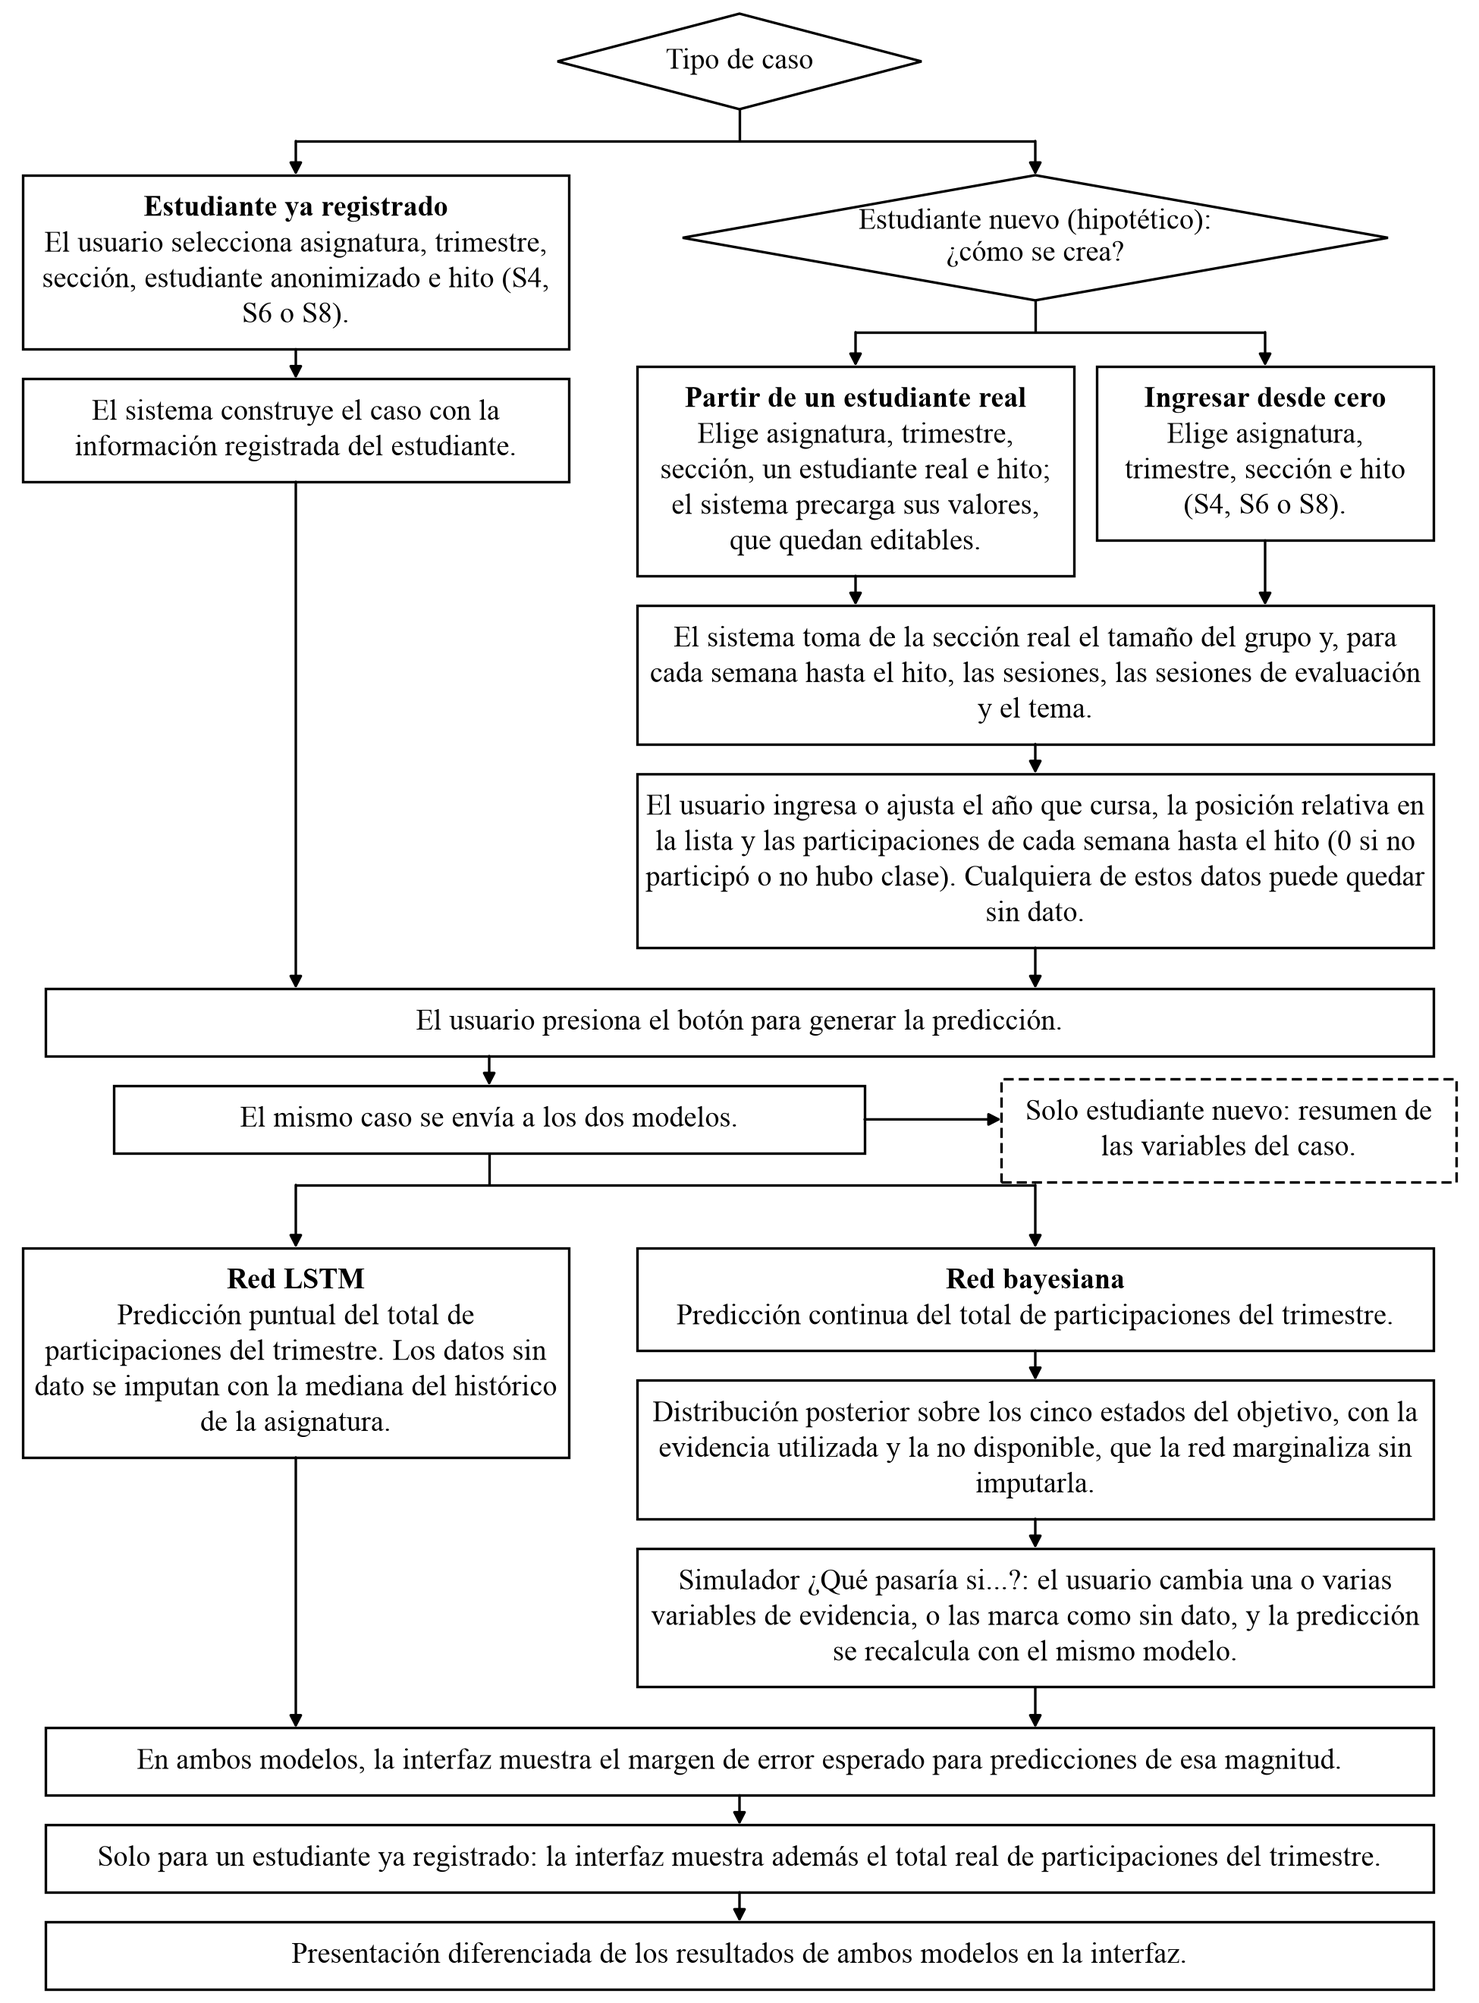
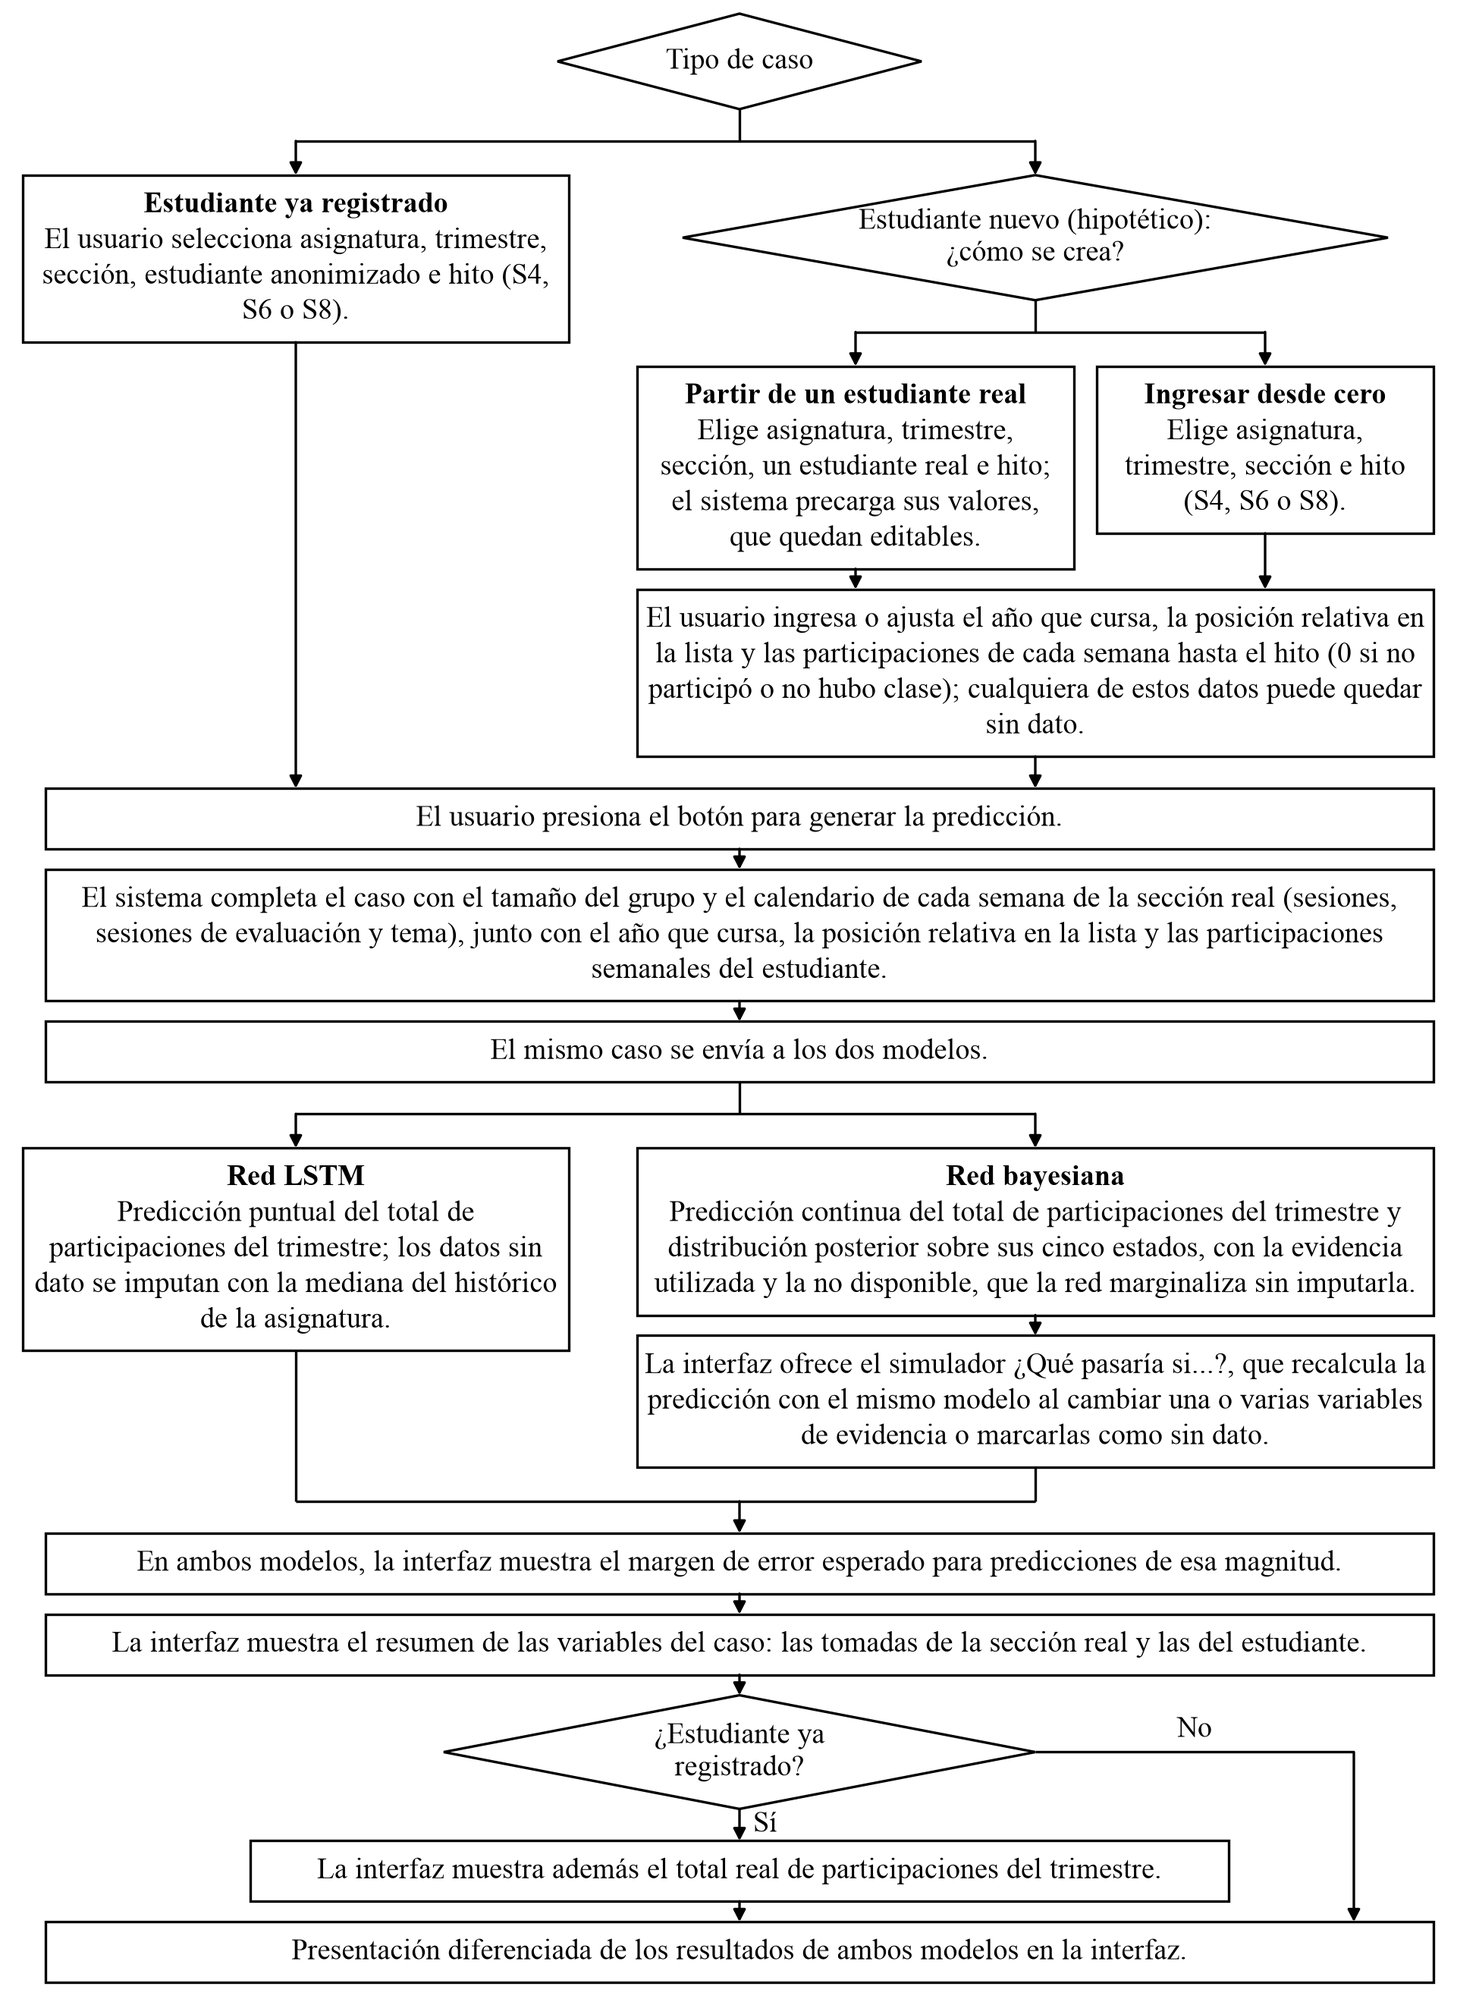
Figura 13

diff --git a/prototipo/app.py b/prototipo/app.py
@@ -44,6 +44,51 @@ SIN_DATO = "__sin_dato__"
 TAMANO_TEXTO_PX = 15
 
 
+def _texto_dato(valor, formato) -> str:
+    return "(sin dato)" if valor is None else formato(valor)
+
+
+def mostrar_resumen_variables(contenedor, materia, trimestre, seccion, hito, anio, posicion,
+                              participaciones, titulo_estudiante: str) -> None:
+    """Resumen de las variables del caso, igual en ambos modos: lo que se
+    toma de la sección real y lo propio del estudiante (registrado o
+    ingresado por el usuario)."""
+    contenedor.clear()
+    try:
+        horario = lstm_service.horario_real_seccion(materia, trimestre, seccion, hito)
+    except Exception:  # noqa: BLE001 — el resumen no debe romper la generación
+        contenedor.set_visibility(False)
+        return
+    with contenedor:
+        ui.label("Resumen de variables de entrada").classes("text-subtitle2 q-mt-md")
+        ui.label(
+            "Las variables del caso: cuáles se fijan por la sección real y cuáles "
+            "corresponden al estudiante."
+        ).classes("text-caption text-grey-7")
+        ui.label(
+            f"Fijado por la sección real ({materia} · {trimestre} · sección {seccion}):"
+        ).classes("text-body2 text-weight-bold")
+        ui.label(f"Tamaño del grupo: {horario['tamano_grupo']:.0f} estudiantes").classes("text-body2")
+        for semana_info in horario["semanas"]:
+            ui.label(
+                f"Semana {semana_info['semana']}: "
+                f"{semana_info['sesiones']:.0f} sesión(es), "
+                f"{semana_info['evaluaciones']:.0f} de evaluación, "
+                f"temas {semana_info['tema_1']}/{semana_info['tema_2']}"
+            ).classes("text-caption text-grey-7")
+        ui.label(titulo_estudiante).classes("text-body2 text-weight-bold q-mt-xs")
+        ui.label(f"Año que cursa: {_texto_dato(anio, lambda v: f'{v:g}')}").classes("text-body2")
+        ui.label(
+            f"Posición relativa en la lista: {_texto_dato(posicion, lambda v: f'{v:.3f}')}"
+        ).classes("text-body2")
+        ui.label(
+            "Participaciones por semana: "
+            + ", ".join(f"sem. {i + 1}: {_texto_dato(p, lambda v: f'{v:.0f}')}"
+                        for i, p in enumerate(participaciones))
+        ).classes("text-body2")
+    contenedor.set_visibility(True)
+
+
 def construir_simulador(contenedor, materia: str, evidencia_observada: dict, prediccion_base: float) -> None:
     """Simulador de evidencia: un desplegable por variable de evidencia,
     iniciado en el valor observado del caso, que permite probar cualquier
@@ -160,6 +205,9 @@ def pagina_principal() -> None:
         for selector in (select_trimestre, select_seccion, select_estudiante, select_hito):
             selector.disable()
 
+        contenedor_resumen_variables = ui.column().classes("w-full q-mt-xs")
+        contenedor_resumen_variables.set_visibility(False)
+
         boton_generar = ui.button("Generar predicción")
         boton_generar.disable()
 
@@ -188,6 +236,7 @@ def pagina_principal() -> None:
             select_hito.disable()
             boton_generar.disable()
             etiqueta_caso.set_text("")
+            contenedor_resumen_variables.set_visibility(False)
             _limpiar_resultado_lstm()
             _limpiar_resultado_bayes()
 
@@ -217,12 +266,14 @@ def pagina_principal() -> None:
             select_hito.set_value(None)
             boton_generar.disable()
             etiqueta_caso.set_text("")
+            contenedor_resumen_variables.set_visibility(False)
             _limpiar_resultado_lstm()
             _limpiar_resultado_bayes()
             if select_estudiante.value:
                 select_hito.enable()
 
         def al_cambiar_hito() -> None:
+            contenedor_resumen_variables.set_visibility(False)
             _limpiar_resultado_lstm()
             _limpiar_resultado_bayes()
             if select_hito.value:
@@ -248,6 +299,15 @@ def pagina_principal() -> None:
                 f"Caso construido: {caso.materia} · {caso.trimestre} · "
                 f"sección {caso.seccion} · {caso.estudiante_id} · semana {caso.hito}"
             )
+            try:
+                registrado = lstm_service.valores_reales_estudiante(caso)
+                mostrar_resumen_variables(
+                    contenedor_resumen_variables, caso.materia, caso.trimestre, caso.seccion,
+                    caso.hito, registrado["anio_academico"], registrado["posicion_lista"],
+                    registrado["participaciones_semanales"], "Registrado para el estudiante:",
+                )
+            except Exception:  # noqa: BLE001 — el resumen no debe romper la generación
+                contenedor_resumen_variables.set_visibility(False)
             _ejecutar_lstm(caso)
             _ejecutar_bayes(caso)
 
@@ -606,11 +666,6 @@ def pagina_principal() -> None:
 
         boton_precargar_n.on_click(precargar_valores)
 
-        ui.label("Resumen de variables de entrada").classes("text-subtitle2 q-mt-md")
-        ui.label(
-            "Las variables del caso: cuáles se fijan por la sección real "
-            "elegida y cuáles ingresaste a mano."
-        ).classes("text-caption text-grey-7")
         contenedor_resumen_variables_n = ui.column().classes("w-full q-mt-xs")
         contenedor_resumen_variables_n.set_visibility(False)
 
@@ -622,6 +677,7 @@ def pagina_principal() -> None:
         def _limpiar_n() -> None:
             precarga["estudiante_id"] = None
             etiqueta_caso_n.set_text("")
+            contenedor_resumen_variables_n.set_visibility(False)
             _limpiar_resultado_lstm_n()
             _limpiar_resultado_bayes_n()
 
@@ -720,43 +776,10 @@ def pagina_principal() -> None:
                 texto_caso += f" · valores de partida precargados de {precarga['estudiante_id']}"
             etiqueta_caso_n.set_text(texto_caso)
 
-            # Resumen de las 9 variables de entrada -- cuáles se fijan por
-            # la sección real (tamaño de grupo, sesiones/evaluaciones/tema
-            # de cada semana) y cuáles se ingresaron a mano.
-            contenedor_resumen_variables_n.clear()
-            try:
-                horario = lstm_service.horario_real_seccion(materia, trimestre, seccion, hito)
-                with contenedor_resumen_variables_n:
-                    ui.label(
-                        f"Fijado por la sección real ({materia} · {trimestre} · sección {seccion}):"
-                    ).classes("text-body2 text-weight-bold")
-                    ui.label(f"Tamaño del grupo: {horario['tamano_grupo']:.0f} estudiantes").classes("text-body2")
-                    for semana_info in horario["semanas"]:
-                        ui.label(
-                            f"Semana {semana_info['semana']}: "
-                            f"{semana_info['sesiones']:.0f} sesión(es), "
-                            f"{semana_info['evaluaciones']:.0f} de evaluación, "
-                            f"temas {semana_info['tema_1']}/{semana_info['tema_2']}"
-                        ).classes("text-caption text-grey-7")
-
-                    ui.label("Ingresado a mano:").classes("text-body2 text-weight-bold q-mt-xs")
-                    ui.label(
-                        f"Año que cursa: {anio if anio is not None else '(sin dato)'}"
-                    ).classes("text-body2")
-                    ui.label(
-                        "Posición relativa en la lista: "
-                        + ("(sin dato)" if posicion is None else f"{posicion:.3f}")
-                    ).classes("text-body2")
-                    ui.label(
-                        "Participaciones por semana: "
-                        + ", ".join(
-                            f"sem. {i + 1}: {'(sin dato)' if p is None else f'{p:.0f}'}"
-                            for i, p in enumerate(participaciones)
-                        )
-                    ).classes("text-body2")
-                contenedor_resumen_variables_n.set_visibility(True)
-            except Exception:  # noqa: BLE001 — el resumen no debe romper la generación
-                contenedor_resumen_variables_n.set_visibility(False)
+            mostrar_resumen_variables(
+                contenedor_resumen_variables_n, materia, trimestre, seccion, hito,
+                anio, posicion, participaciones, "Ingresado por el usuario:",
+            )
 
             _ejecutar_lstm_manual(materia, trimestre, seccion, hito, anio, posicion, participaciones)
             _ejecutar_bayes_manual(materia, trimestre, seccion, hito, anio, participaciones)

diff --git a/prototipo/figura_flujo_prototipo.py b/prototipo/figura_flujo_prototipo.py
@@ -23,8 +23,8 @@ CARPETA_FUENTES = Path("/System/Library/Fonts/Supplemental")
 ANCHO = 6.5
 TAMANO = 9
 INTERLINEA = TAMANO * 1.25 / 72
-RELLENO = 0.07
-SEP = 0.13
+RELLENO = 0.055
+SEP = 0.09
 GROSOR = 0.8
 
 for nombre in ("Times New Roman.ttf", "Times New Roman Bold.ttf"):
@@ -128,9 +128,6 @@ y_ramas = tipo["abajo"] - 0.14 - 0.15
 # 2. Estudiante ya registrado
 l1 = caja(X_IZQ, y_ramas, W_IZQ, "El usuario selecciona asignatura, trimestre, sección, "
           "estudiante anonimizado e hito (S4, S6 o S8).", encabezado="Estudiante ya registrado")
-l2 = caja(X_IZQ, l1["abajo"] - SEP, W_IZQ, "El sistema construye el caso con la "
-          "información registrada del estudiante.")
-flecha((X_IZQ, l1["abajo"]), (X_IZQ, l2["arriba"]))
 
 # 3. Estudiante nuevo
 cab_nuevo = rombo(X_DER, y_ramas, 3.1, 0.55, "Estudiante nuevo (hipotético): ¿cómo se crea?")
@@ -146,58 +143,70 @@ cero = caja(X_CERO, y_sub, W_CERO, "Elige asignatura, trimestre, sección e hito
             "(S4, S6 o S8).", encabezado="Ingresar desde cero")
 bifurcar(X_DER, cab_nuevo["abajo"], [(X_REAL, real["arriba"]), (X_CERO, cero["arriba"])])
 
-seccion = caja(X_DER, min(real["abajo"], cero["abajo"]) - SEP, W_DER, "El sistema toma de la "
-               "sección real el tamaño del grupo y, para cada semana hasta el hito, las "
-               "sesiones, las sesiones de evaluación y el tema.")
-flecha((X_REAL, real["abajo"]), (X_REAL, seccion["arriba"]))
-flecha((X_CERO, cero["abajo"]), (X_CERO, seccion["arriba"]))
-ingreso = caja(X_DER, seccion["abajo"] - SEP, W_DER, "El usuario ingresa o ajusta el año que "
-               "cursa, la posición relativa en la lista y las participaciones de cada semana "
-               "hasta el hito (0 si no participó o no hubo clase). Cualquiera de estos datos "
-               "puede quedar sin dato.")
-flecha((X_DER, seccion["abajo"]), (X_DER, ingreso["arriba"]))
+ingreso = caja(X_DER, min(real["abajo"], cero["abajo"]) - SEP, W_DER, "El usuario ingresa o "
+               "ajusta el año que cursa, la posición relativa en la lista y las participaciones "
+               "de cada semana hasta el hito (0 si no participó o no hubo clase); cualquiera de "
+               "estos datos puede quedar sin dato.")
+flecha((X_REAL, real["abajo"]), (X_REAL, ingreso["arriba"]))
+flecha((X_CERO, cero["abajo"]), (X_CERO, ingreso["arriba"]))
 
 # 4. Tronco común
 boton = caja(X_CENTRO, ingreso["abajo"] - SEP - 0.05, W_TOTAL,
              "El usuario presiona el botón para generar la predicción.")
-flecha((X_IZQ, l2["abajo"]), (X_IZQ, boton["arriba"]))
+flecha((X_IZQ, l1["abajo"]), (X_IZQ, boton["arriba"]))
 flecha((X_DER, ingreso["abajo"]), (X_DER, boton["arriba"]))
 
-X_ENVIO, W_ENVIO = 2.15, 3.30
-envio = caja(X_ENVIO, boton["abajo"] - SEP, W_ENVIO, "El mismo caso se envía a los dos modelos.")
-flecha((X_ENVIO, boton["abajo"]), (X_ENVIO, envio["arriba"]))
-resumen = caja(5.40, envio["arriba"] + 0.03, 2.00, "Solo estudiante nuevo: resumen de las "
-               "variables del caso.", discontinua=True)
-flecha((envio["der"], envio["medio"]), (resumen["izq"], envio["medio"]))
+completa = caja(X_CENTRO, boton["abajo"] - SEP, W_TOTAL, "El sistema completa el caso con el "
+                "tamaño del grupo y el calendario de cada semana de la sección real (sesiones, "
+                "sesiones de evaluación y tema), junto con el año que cursa, la posición relativa "
+                "en la lista y las participaciones semanales del estudiante.")
+flecha((X_CENTRO, boton["abajo"]), (X_CENTRO, completa["arriba"]))
+envio = caja(X_CENTRO, completa["abajo"] - SEP, W_TOTAL, "El mismo caso se envía a los dos modelos.")
+flecha((X_CENTRO, completa["abajo"]), (X_CENTRO, envio["arriba"]))
 
 # 5. Modelos
-y_modelos = min(envio["abajo"], resumen["abajo"]) - 0.14 - 0.15
+y_modelos = envio["abajo"] - 0.14 - 0.15
 lstm = caja(X_IZQ, y_modelos, W_IZQ, "Predicción puntual del total de participaciones "
-            "del trimestre. Los datos sin dato se imputan con la mediana del histórico de la "
+            "del trimestre; los datos sin dato se imputan con la mediana del histórico de la "
             "asignatura.", encabezado="Red LSTM")
 b1 = caja(X_DER, y_modelos, W_DER, "Predicción continua del total de participaciones "
-          "del trimestre.", encabezado="Red bayesiana")
-bifurcar(X_ENVIO, envio["abajo"], [(X_IZQ, lstm["arriba"]), (X_DER, b1["arriba"])])
-b2 = caja(X_DER, b1["abajo"] - SEP, W_DER, "Distribución posterior sobre los cinco estados "
-          "del objetivo, con la evidencia utilizada y la no disponible, que la red "
-          "marginaliza sin imputarla.")
-b4 = caja(X_DER, b2["abajo"] - SEP, W_DER, "Simulador ¿Qué pasaría si...?: el usuario cambia "
-          "una o varias variables de evidencia, o las marca como sin dato, y la predicción "
-          "se recalcula con el mismo modelo.")
-for a, b in ((b1, b2), (b2, b4)):
-    flecha((X_DER, a["abajo"]), (X_DER, b["arriba"]))
+          "del trimestre y distribución posterior sobre sus cinco estados, con la evidencia "
+          "utilizada y la no disponible, que la red marginaliza sin imputarla.",
+          encabezado="Red bayesiana")
+bifurcar(X_CENTRO, envio["abajo"], [(X_IZQ, lstm["arriba"]), (X_DER, b1["arriba"])])
+b4 = caja(X_DER, b1["abajo"] - SEP, W_DER, "La interfaz ofrece el simulador ¿Qué pasaría "
+          "si...?, que recalcula la predicción con el mismo modelo al cambiar una o varias "
+          "variables de evidencia o marcarlas como sin dato.")
+for a_, b_ in ((b1, b4),):
+    flecha((X_DER, a_["abajo"]), (X_DER, b_["arriba"]))
 
-# 6. Salidas
-margen = caja(X_CENTRO, b4["abajo"] - SEP - 0.05, W_TOTAL, "En ambos modelos, la interfaz "
-              "muestra el margen de error esperado para predicciones de esa magnitud.")
-flecha((X_IZQ, lstm["abajo"]), (X_IZQ, margen["arriba"]))
-flecha((X_DER, b4["abajo"]), (X_DER, margen["arriba"]))
-total = caja(X_CENTRO, margen["abajo"] - SEP, W_TOTAL, "Solo para un estudiante ya registrado: "
-             "la interfaz muestra además el total real de participaciones del trimestre.")
-flecha((X_CENTRO, margen["abajo"]), (X_CENTRO, total["arriba"]))
+# 6. Salidas: las dos columnas se unen en una barra común
+margen_y = b4["abajo"] - SEP - 0.2
+y_union = margen_y + 0.14
+linea((X_IZQ, lstm["abajo"]), (X_IZQ, y_union))
+linea((X_DER, b4["abajo"]), (X_DER, y_union))
+linea((X_IZQ, y_union), (X_DER, y_union))
+margen = caja(X_CENTRO, margen_y, W_TOTAL, "En ambos modelos, la interfaz muestra el margen "
+              "de error esperado para predicciones de esa magnitud.")
+flecha((X_CENTRO, y_union), (X_CENTRO, margen["arriba"]))
+
+resumen = caja(X_CENTRO, margen["abajo"] - SEP, W_TOTAL, "La interfaz muestra el resumen de "
+               "las variables del caso: las tomadas de la sección real y las del estudiante.")
+flecha((X_CENTRO, margen["abajo"]), (X_CENTRO, resumen["arriba"]))
+registrado = rombo(X_CENTRO, resumen["abajo"] - SEP, 2.6, 0.5, "¿Estudiante ya registrado?")
+total = caja(X_CENTRO, registrado["abajo"] - SEP - 0.05, 4.3, "La interfaz muestra además el "
+             "total real de participaciones del trimestre.")
+flecha((X_CENTRO, resumen["abajo"]), (X_CENTRO, registrado["arriba"]))
+flecha((X_CENTRO, registrado["abajo"]), (X_CENTRO, total["arriba"]))
+eje.text(X_CENTRO + 0.06, (registrado["abajo"] + total["arriba"]) / 2, "Sí", ha="left", va="center")
+
 final = caja(X_CENTRO, total["abajo"] - SEP, W_TOTAL, "Presentación diferenciada de los "
              "resultados de ambos modelos en la interfaz.")
 flecha((X_CENTRO, total["abajo"]), (X_CENTRO, final["arriba"]))
+X_NO = 5.95
+y_rombo = (registrado["arriba"] + registrado["abajo"]) / 2
+flecha((X_CENTRO + 1.3, y_rombo), (X_NO, y_rombo), (X_NO, final["arriba"]))
+eje.text((X_CENTRO + 1.3 + X_NO) / 2, y_rombo + 0.04, "No", ha="center", va="bottom")
 
 # Lienzo ajustado al contenido, con 1 unidad = 1 pulgada.
 y_min, y_max = final["abajo"] - 0.06, tipo["arriba"] + 0.06
